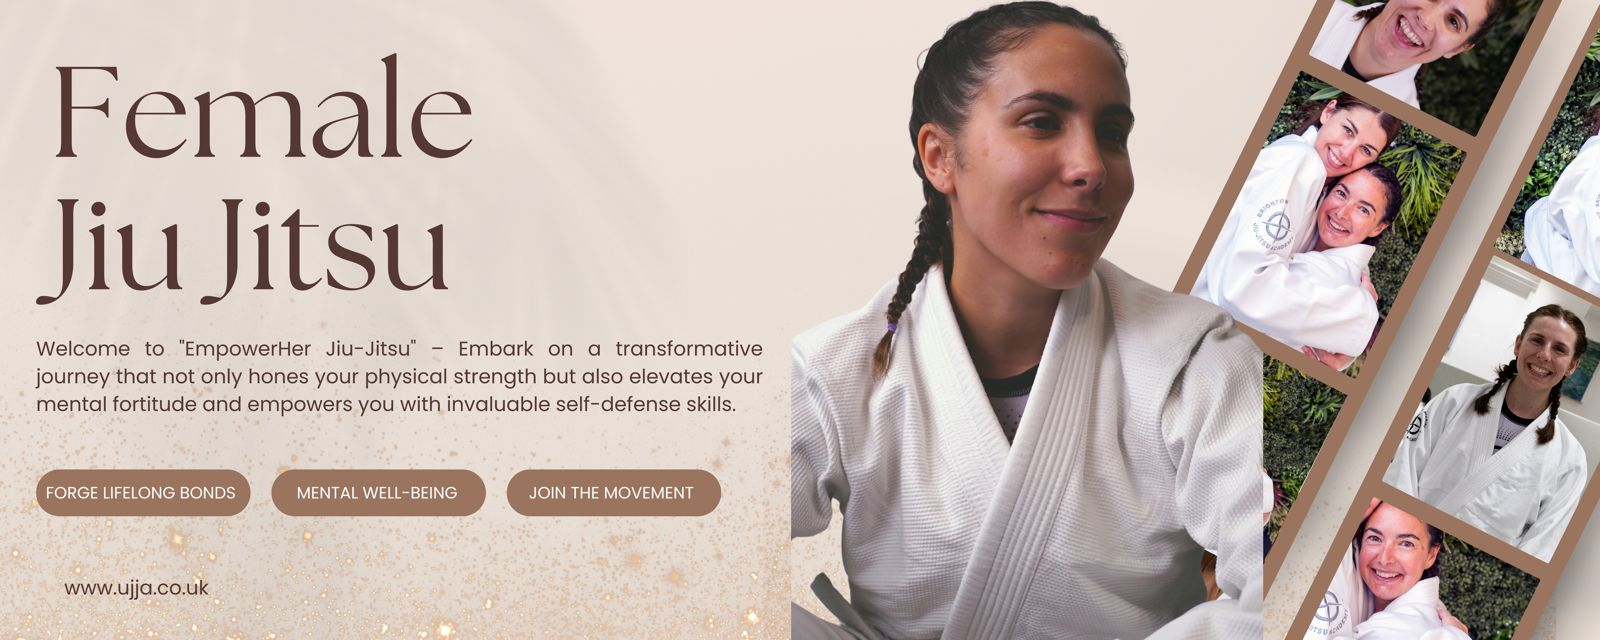
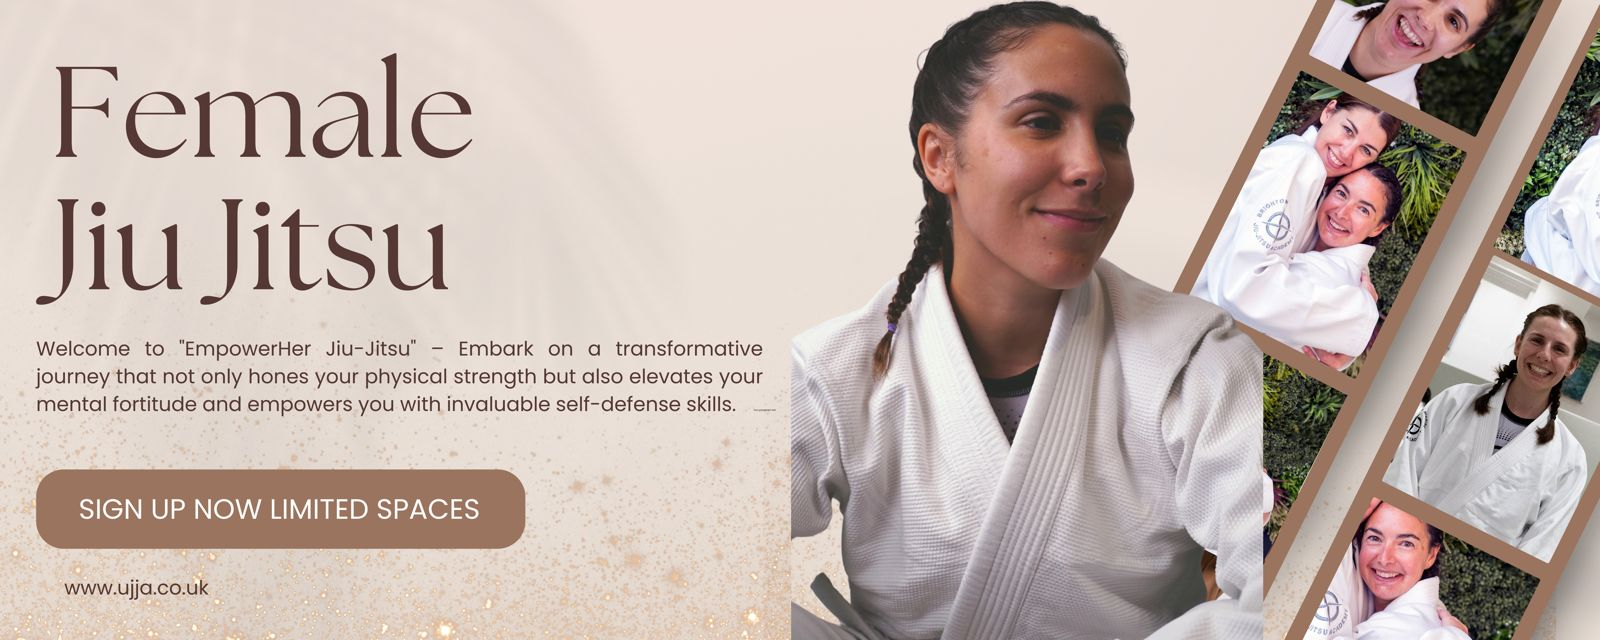
updated

Changed region(s): [[0.0, 0.7188, 0.4688, 0.875]]

diff --git a/src/pages/FemalePage/PageStyles.css b/src/pages/FemalePage/PageStyles.css
@@ -1,125 +1,115 @@
 .page-container {
-    width: 100%;
-    margin-top: 7.3rem;
-    max-width: 1200px;
-    margin: 0 auto;
-    /* padding: 20px; */
-  }
-  
-  /* Full-Width Image Section */
-  .image-section img {
-    margin-top: 7.3rem;
-    width: 100%;
-    height: auto;
-    display: block;
-    margin-bottom: 20px;
-  }
-  
-  /* Embedded iFrame Section */
-  .iframe-section iframe {
-    width: 100%;
-    height: 400px;
-    border: none;
-    margin-bottom: 20px;
-   
-  }
-
-  .textarea{
-    /* padding: 20px; */
-    margin: 10px;
+  width: 100%;
+  margin-top: 7.3rem;
+  max-width: 1200px;
+  margin: 0 auto;
+  /* padding: 20px; */
 }
 
-.tick_text{
-    display: flex;
-}
-.tick_text p{
-    margin-top: 1px;
-    margin-left: 7px;
+/* Full-Width Image Section */
+.image-section img {
+  margin-top: 7.3rem;
+  width: 100%;
+  height: auto;
+  display: block;
+  cursor: pointer;
+  /* margin-bottom: 20px; */
 }
 
-  
-  /* Text and Image Section */
+/* Text and Image Section */
+.text-image-section {
+  display: flex;
+  flex-wrap: wrap;
+  /* align-items: center; */
+  /* margin-top: 10px; */
+  gap: 20px;
+}
+
+.text-content {
+  flex: 1;
+  min-width: 280px;
+  margin: 5px;
+  text-align: justify;
+  text-justify: inter-word;
+}
+
+.text-content h3 {
+  margin-bottom: 20px;
+  margin-top: 20px;
+}
+
+.text-content h5 {
+  margin-bottom: 15px;
+  color: #333;
+  font-size: 16px;
+  font-weight: 600;
+  margin-top: 15px;
+}
+
+.text-content p {
+  color: #555;
+  line-height: 1.6;
+  font-size: 14px;
+  margin-top: 5px;
+  margin-bottom: 10px;
+  /* font-size: 0.95rem; */
+}
+
+.image-content {
+  flex: 1;
+  min-width: 280px;
+}
+
+.image-content img {
+  width: 100%;
+  height: auto;
+  cursor: pointer;
+}
+
+.singup_div {
+  display: flex;
+  align-items: center;
+  justify-content: center;
+  background-color: #f6e9e1;
+  padding: 12px;
+  font-size: 20px;
+  cursor: pointer;
+}
+
+/* Responsive Design */
+@media (max-width: 768px) {
   .text-image-section {
-    display: flex;
-    flex-wrap: wrap;
-    /* align-items: center; */
-    margin-top: 10px;
-    gap: 20px;
+    flex-direction: column;
+    text-align: center;
   }
-  
-  .text-content {
-    flex: 1;
-    min-width: 280px;
-    margin: 5px;
-    text-align: justify;
-    text-justify: inter-word;
-  }
-  
-  .text-content h5 {
-    margin-bottom: 15px;
-    color: #333;
-    font-size: 16px;
-    font-weight: 600;
-    margin-top: 15px;
 
-    
-  }
-  
-  .text-content p {
-    color: #555;
-    line-height: 1.6;
-    font-size: 14px;
-    margin-top: 5px;
-    margin-bottom: 10px;
-    /* font-size: 0.95rem; */
-  }
-  
-  .image-content {
-    flex: 1;
-    min-width: 280px;
-  }
-  
   .image-content img {
-    width: 100%;
-    height: auto;
- 
+    max-width: 90%;
+    margin: 0 auto;
   }
-  
-  /* Responsive Design */
-  @media (max-width: 768px) {
-    .text-image-section {
-      flex-direction: column;
-      text-align: center;
-    }
-  
-    .image-content img {
-      max-width: 90%;
-      margin: 0 auto;
-    }
+}
+.responsive-text-section {
+  text-align: justify;
+  text-justify: inter-word;
+  margin-left: 3px;
+}
 
-  }
-  .responsive-text-section {
-    text-align: justify;
-    text-justify: inter-word;
-margin-left: 3px;
-  }
+.responsive-text-section h5 {
+  /* font-size: 1.1rem; */
+  font-size: 16px;
+  font-weight: 600;
+  margin-top: 15px;
+  margin-bottom: 8px;
+}
 
-  .responsive-text-section h5 {
-    /* font-size: 1.1rem; */
-    font-size: 16px;
-    font-weight: 600;
-    margin-top: 15px;
-    margin-bottom: 8px;
-  }
+.responsive-text-section p {
+  /* font-size: 0.95rem; */
+  font-size: 14px;
+  margin-top: 5px;
+  margin-bottom: 10px;
+}
 
-  .responsive-text-section p {
-    /* font-size: 0.95rem; */
-    font-size: 14px;
-    margin-top: 5px;
-    margin-bottom: 10px;
-  }
-  
-  /* Container styling */
+/* Container styling */
 .container-membership {
   display: flex;
   align-items: center;
@@ -144,7 +134,7 @@ margin-left: 3px;
   padding: 0.5rem 1rem;
   font-size: 14px;
   color: white;
-  background-color:#9a745f;
+  background-color: #9a745f;
   border: none;
   cursor: pointer;
   transition: background-color 0.3s ease;

diff --git a/src/pages/FemalePage/FemalePage.jsx b/src/pages/FemalePage/FemalePage.jsx
@@ -4,39 +4,33 @@ import { SiTicktick } from "react-icons/si";
 import femalepageimg from "../../assets/images/femaleimg.jpg";
 import femalejiujitsu from "../../assets/images/femalejiujitsuimg.jpg";
 import MembershipModal from "../MembershipModal/MembershipModal";
+import TimeTable from "../Home/TimeTable/TimeTable";
+import Location from "../Home/Location/Location";
+
+const handleSignup = () => {
+    // Redirect to the provided link
+    window.open("https://kick.site/njfvbjnk", "_blank");
+  };
 
 const ResponsivePage = () => {
   return (
     <div className="page-container">
       {/* Full-Width Image Section */}
       <div className="image-section">
-        <img src={femalepageimg} alt="Main" />
+      <img src={femalepageimg} alt="Main" onClick={handleSignup}/>
       </div>
 
-      <div className="container-membership">
-      <div className="text-mem">Women's Jiu Jitsu Group 1 (+16 years) Tuesday - Thursdays</div>
-      <button className="button-see-mem"><MembershipModal/></button>
-    </div>
 
-      {/* Embedded iFrame Section */}
-      {/* <div className="iframe-section">
-        <iframe
-          src="https://bmjja.kicksite.net/bizbuilders/landing_pages/eyJhbGciOiJIUzI1NiJ9.eyJkYXRhIjoibGRwZ18yMDAwNSJ9.MexZME6CjIVGZdVFkvF5Gy4dt1i1kG4-H-xqbizV9qA"
-          title="Embedded Content"
-          frameBorder="0"
-          allowFullScreen
-        ></iframe>
-      </div> */}
-    
-        <div className="responsive-text-section">
-        <h3>Jiu Jitsu For Female</h3>
-            <div className="tick_text">
-        </div>
       
-      </div>
+    
+        {/* <div className="responsive-text-section">
+        <h3>Jiu Jitsu For Female</h3>      
+      </div> */}
+
       {/* Left Text - Right Image Section */}
       <div className="text-image-section">
         <div className="text-content">
+        <h3>Jiu Jitsu For Female</h3> 
           <p>
             Welcome to <span> "EmpowerHer Jiu-Jitsu"</span> – Embark on a
             transformative journey that not only hones your physical strength
@@ -71,7 +65,8 @@ const ResponsivePage = () => {
           </p>
         </div>
         <div className="image-content">
-          <img src={femalejiujitsu} alt="Side" />
+       <img src={femalejiujitsu} alt="Side" onClick={handleSignup}/>
+          <div onClick={handleSignup} className="singup_div">SIGN UP NOW LIMITED SPACES</div>
         </div>
       </div>
       {/* Responsive Text Section */}
@@ -96,6 +91,8 @@ const ResponsivePage = () => {
           first step on your Jiu Jitsu journey.
         </p>
       </div>
+      <Location/>
+      <TimeTable/>
     </div>
   );
 };

diff --git a/src/pages/MembershipModal/MembershipModal.module.css b/src/pages/MembershipModal/MembershipModal.module.css
@@ -3,8 +3,7 @@
     background-color: #9a745f;
     color: white;
     border: none;
-    padding: 10px 20px;
-    border-radius: 5px;
+
     cursor: pointer;
     font-size: 16px;
     transition: background-color 0.3s ease;
